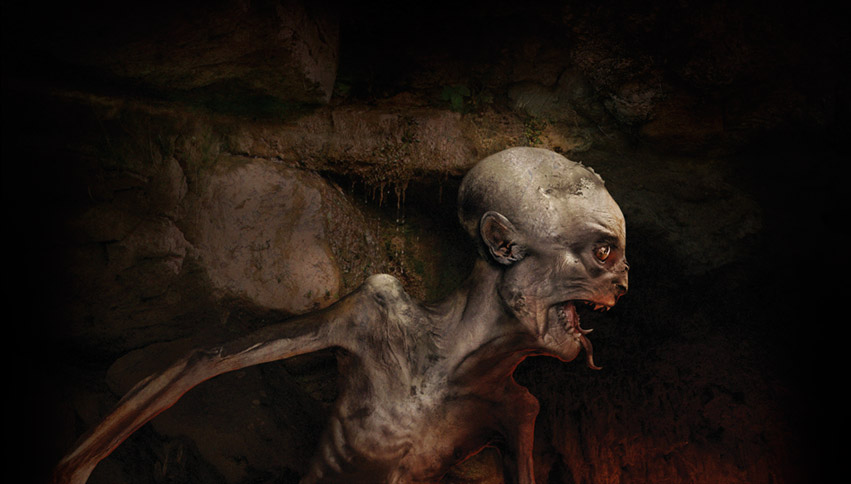
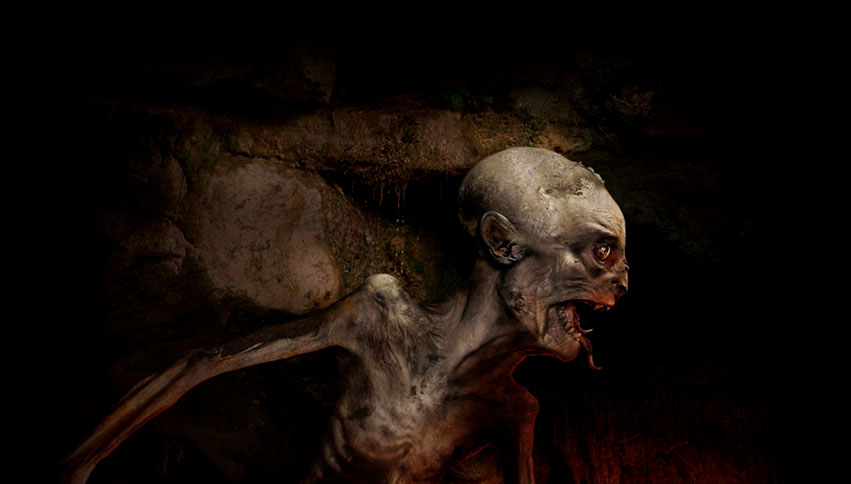
footer image

Changed region(s): [[0.1833, 0.031, 0.3972, 0.186], [0.0611, 0.8988, 0.1222, 1.0], [0.6722, 0.093, 0.7027, 0.124]]

diff --git a/css/styles.css b/css/styles.css
@@ -1438,15 +1438,15 @@ label {
   -webkit-transition: all 1.5s;
   -moz-transition: all 0.5s;
   position: relative;
-  background-image: url(../img/hero/1_small.jpg); }
+  background-image: url(../img/slider/1_small.jpg); }
 
 @media only screen and (min-width: 479px) {
   .CoverImage {
-    background-image: url(../img/hero/1_medium.jpg); } }
+    background-image: url(../img/slider/1_medium.jpg); } }
 
 @media only screen and (min-width: 799px) {
   .CoverImage {
-    background-image: url(../img/hero/1_big.jpg); } }
+    background-image: url(../img/slider/1.jpg); } }
 
 .CoverImage--content {
   height: 100%;
@@ -1679,7 +1679,7 @@ body {
   overflow: hidden; }
 
 #footer {
-  background-color: #050505;
+  background-color: #000;
   position: relative;
   min-height: 200px;
   color: #fff;
